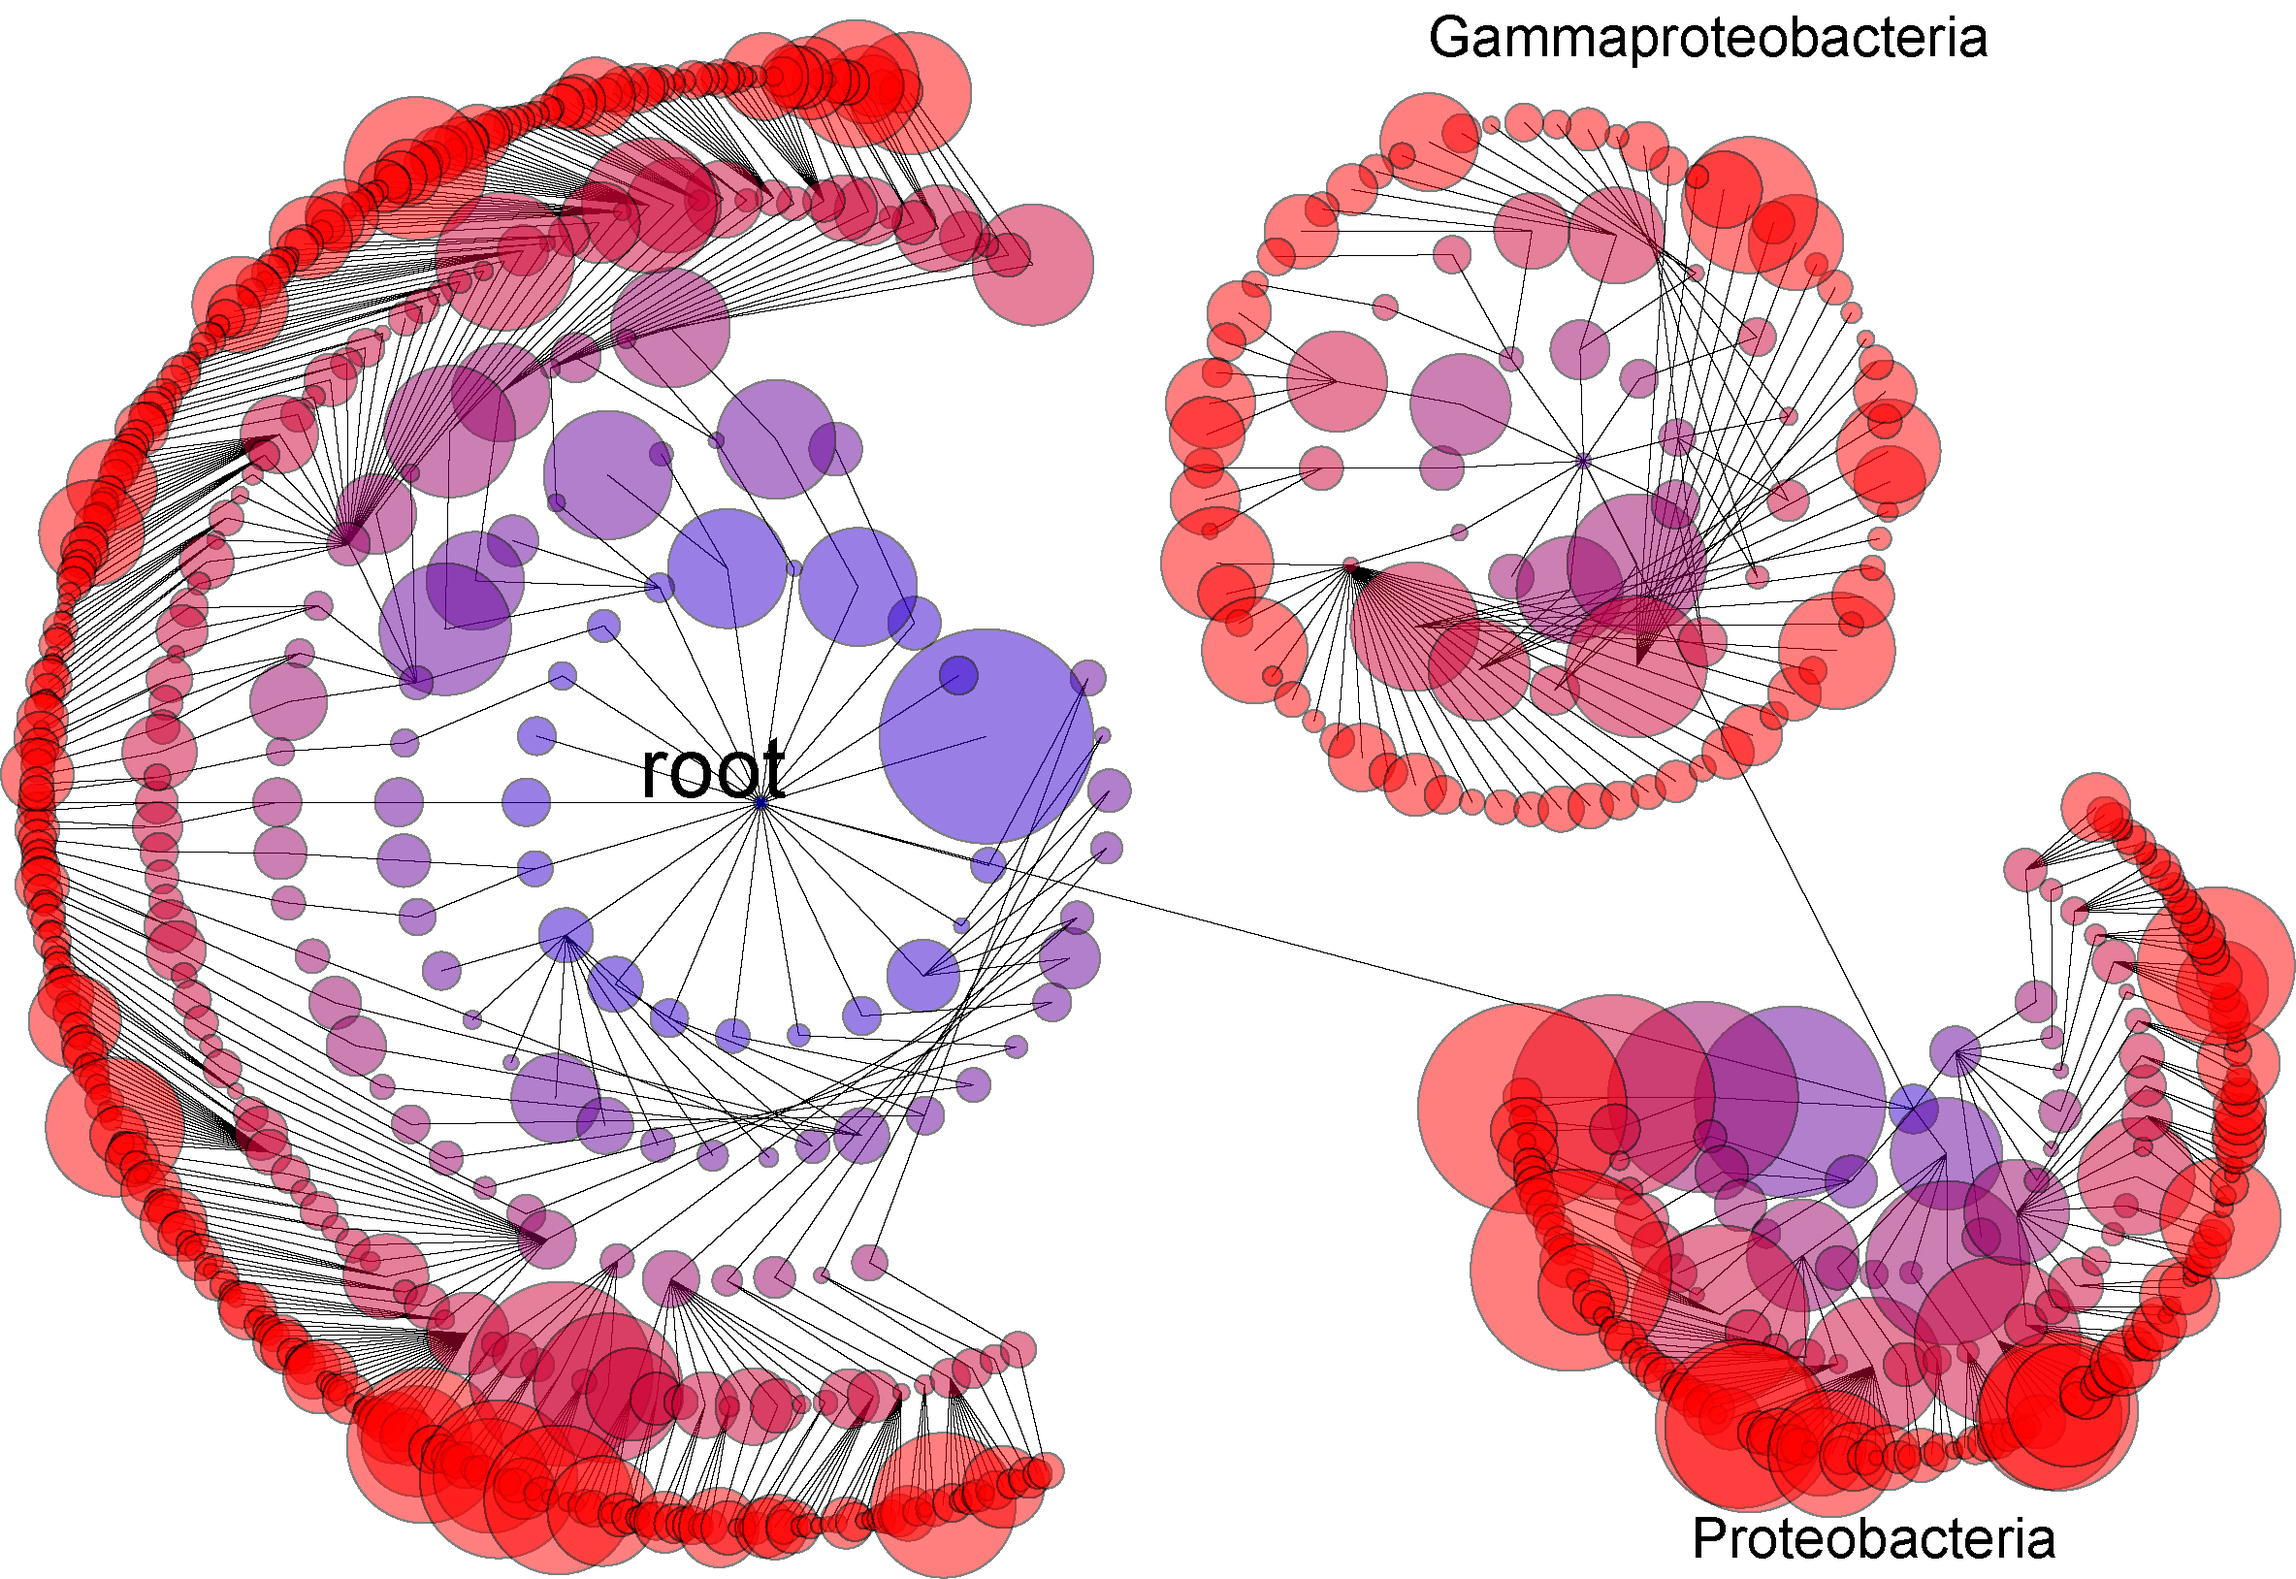
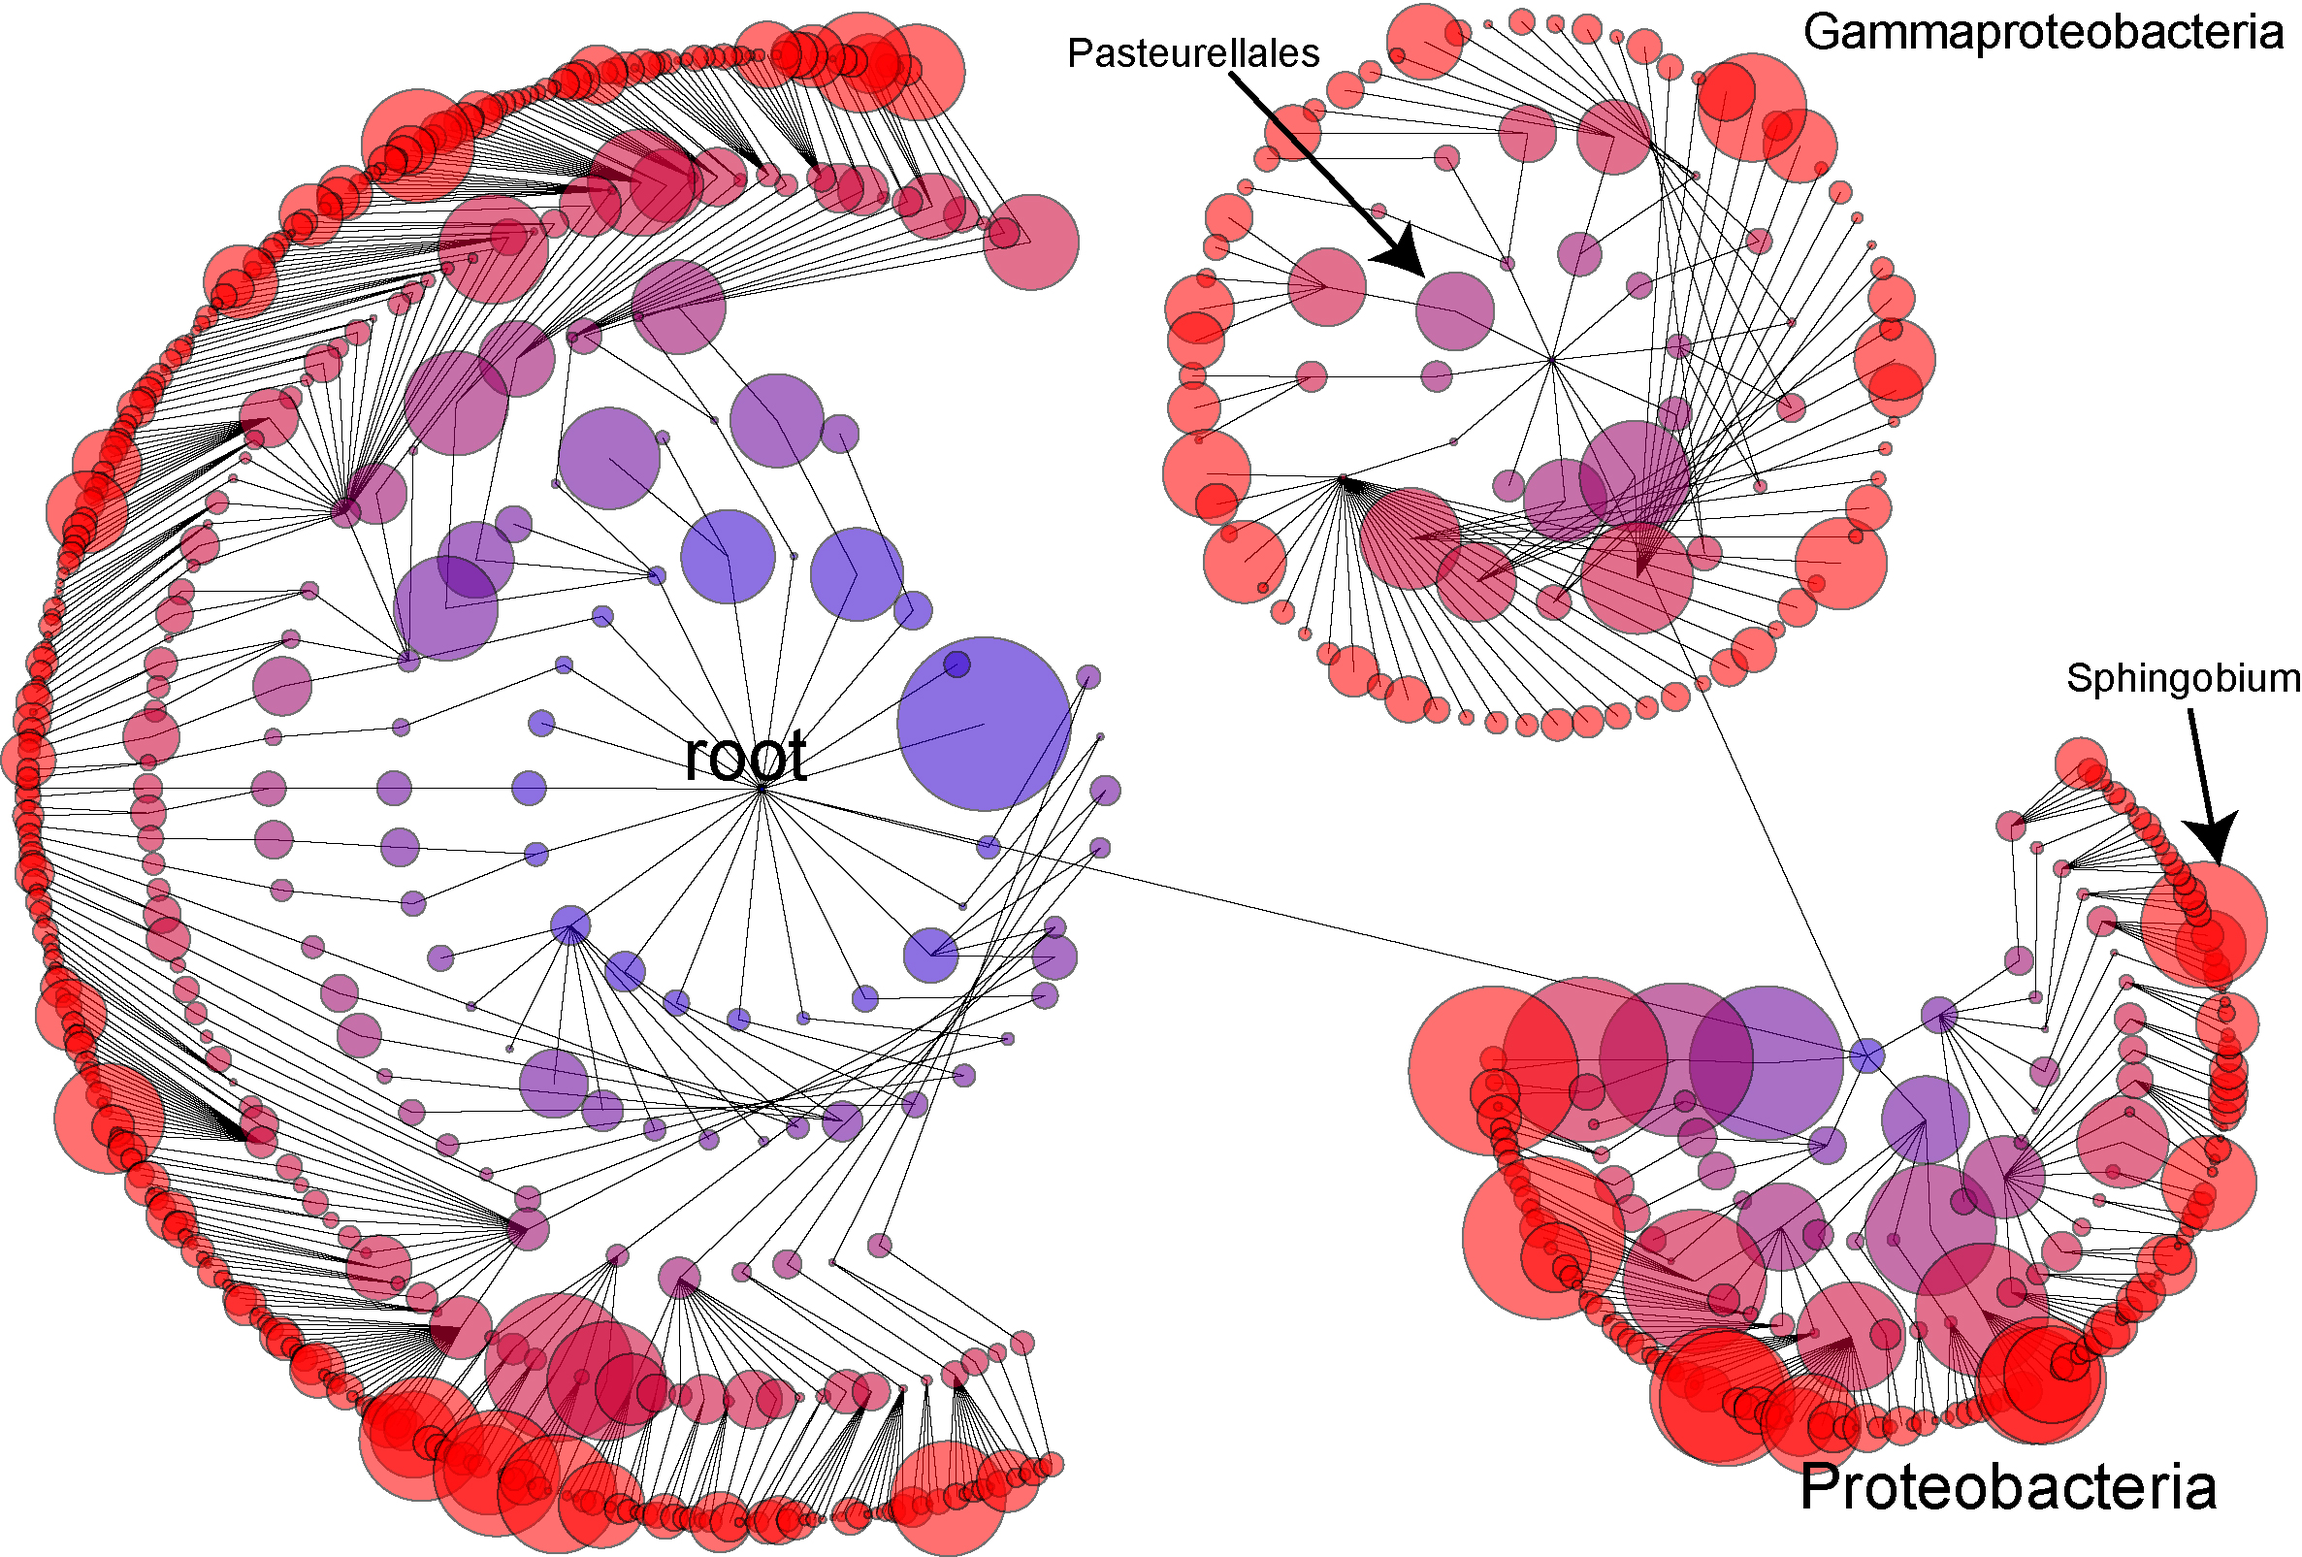
refining documentation...

diff --git a/src/genomicsForceDemo.html b/src/genomicsForceDemo.html
@@ -94,15 +94,21 @@
 		<p> This allows us to visualize inference information in a way that is hierarchcially sensitive to 
 		taxonomic information.  Larger nodes are taxa that are more significantly different between case and control.
 		   This is a rich visualization that will reveal patterns that may not be obvious when
-		 considering taxomomic and inferential relationships separately.
+		 considering taxomomic and inferential relationships separately.  For example, order 
+		 Pasteurellales (inidcated by the arrow above) is more significantly different between case
+		 and control than any mord derived taxa under Pasteurellales.  By contrast, genus Sphingobium 
+		 (also indicated by an arrow ) is more significant than any of its parent taxa higher in the tree.
 		 
+		 <br><br>(We can view each branch of the tree separate from all other branches by toggling the v key)
+		 
+		 <!--
 		 <h3>Selecting subsets of multi-dimensional datasets in a hierarchically aware matter</h3>
 		 <p> Although (obviously) still under development, the demonstration has some rudimentary ability to 
 		 	visualize data in a 2-dimensional scatter plot space and relate that visualization to the hierarchical 
 		 	space.  In the following, we show the relationship between the -logPValue (for the null hypothesis that 
 		 	that the distribution of each taxa is the same in case and control) and the fraction of sequences for each
 		 	taxa that were assigned to case:
-		 	
+		 	-->
 		
 	</body>
 </html>
